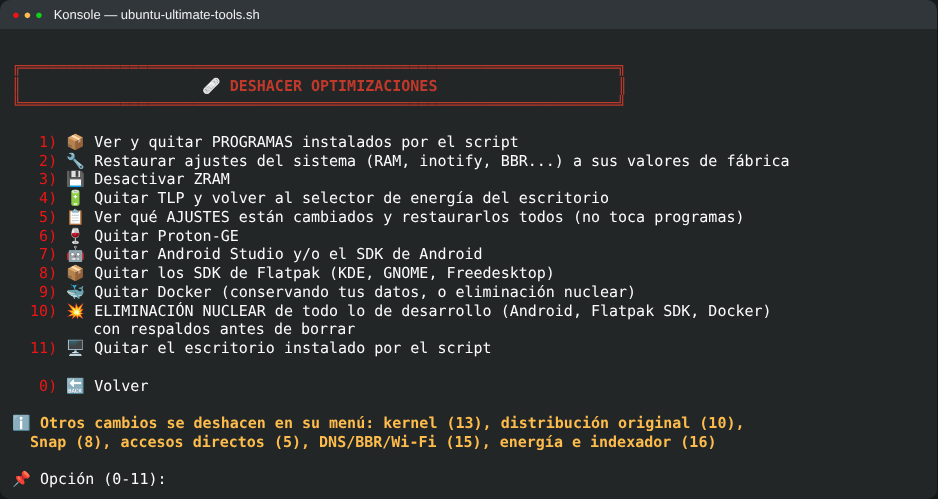
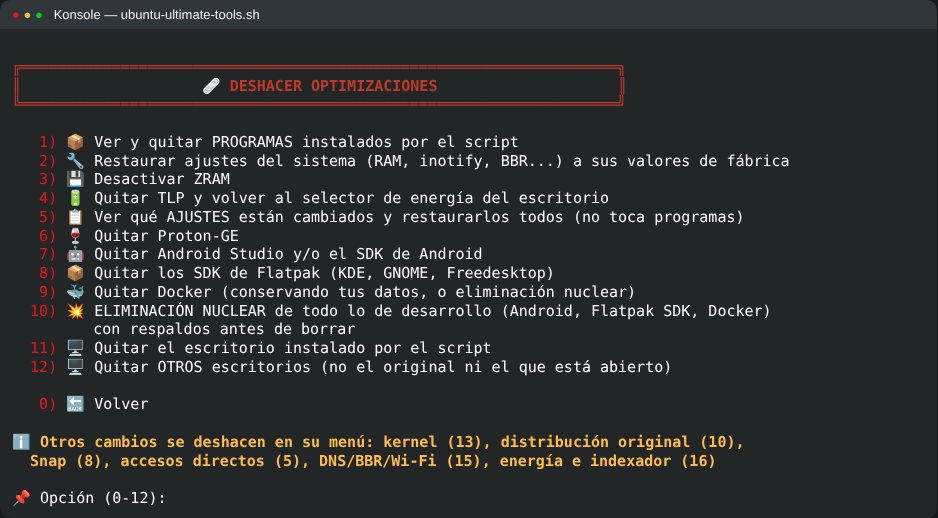
Quitar otros escritorios (los que no instaló el script), a prueba de errores
- Opción 9 → 12: nunca ofrece el escritorio original del sabor ni el que está abierto
- Solo quita lo que ese escritorio dejó de usar (no lo que ya sobraba antes)
- Conserva la pantalla de inicio de sesión en uso
- Si se llevara piezas de otro escritorio, red, sonido o sistema, no quita nada
- README y captura del menú Deshacer actualizados

diff --git a/README.md b/README.md
@@ -362,6 +362,9 @@ disponible, se vuelve a la selección escribiendo números.
   flatpak-builder de una vez, con doble confirmación y respaldos antes. Tus proyectos, tus claves de firma y
   tus apps Flatpak no se tocan.
 - **Quitar el escritorio instalado por el script** (11): solo sus paquetes; el arranque y la red vuelven a como estaban.
+- **Quitar otros escritorios** (12): los que no instaló el script (por ejemplo uno puesto a mano). Nunca ofrece
+  el original del sabor ni el que está abierto, deja la pantalla de inicio de sesión en uso y solo quita lo que
+  ese escritorio dejó de usar. Si se llevara algo de otro escritorio, la red o el sonido, no quita nada.
 - **Restaurar todos los ajustes** de una vez, sin desinstalar programas. "Revertir a
   distribución original" (opción 10) también lo hace.
 
@@ -506,6 +509,7 @@ Primera opción de la lista de software opcional. Instala el escritorio que elij
 - **Si ya tienes escritorio**, se conserva tu pantalla de inicio de sesión (GDM, SDDM, LightDM).
 - **Red**: en Server pasa la red a NetworkManager con `netplan try` (si en 60 s no confirmas, vuelve
   sola a como estaba). Por SSH no se cambia, para no dejarte sin conexión.
+- **Otros escritorios** (instalados a mano o que ya venían): se quitan en la opción 9 → 12, con las mismas protecciones.
 - **Se puede quitar**: opción 9 → 11 quita solo los paquetes que trajo, y vuelve el arranque y la red
   a como estaban (si quitarlo arrastrara algo que ya tenías, no se quita).
 
